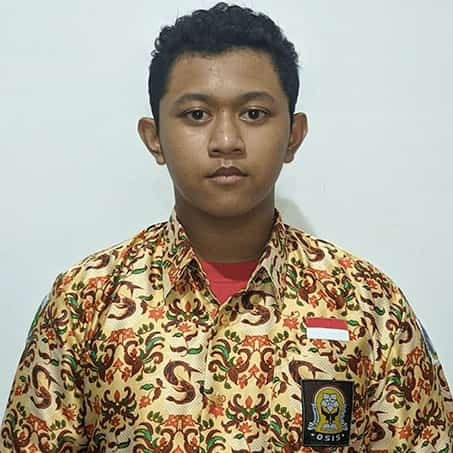
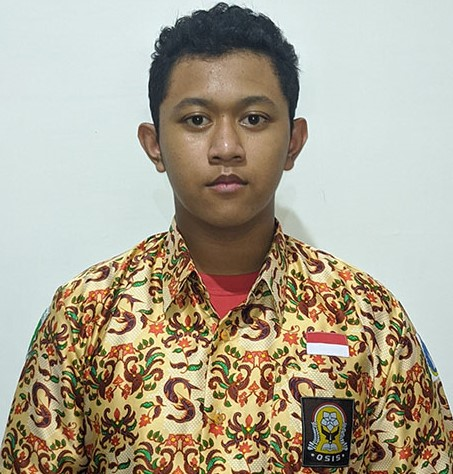
first commit

Changed region(s): [[0.0309, 0.4945, 1.0, 1.0], [0.0, 0.8962, 0.1854, 1.0], [0.5254, 0.6181, 0.5563, 0.649]]

diff --git a/index.html b/index.html
@@ -47,7 +47,7 @@
 
     <!-- jumbotron -->
     <section class="jumbotron text-center">
-      <img src="img/bb1.jpg" alt="Aditya Fajar" width="200" class="rounded-circle img-thumbnail" />
+      <img src="img/bb.jpg" alt="Aditya Fajar" width="200" class="rounded-circle img-thumbnail" />
       <h1 class="display-4">Aditya Fajar Maulana</h1>
       <p class="lead">Web Developer|Content Creator</p>
       <svg xmlns="http://www.w3.org/2000/svg" viewBox="0 0 1440 320"><path fill="#fff" fill-opacity="1" d="M0,32L48,32C96,32,192,32,288,74.7C384,117,480,203,576,208C672,213,768,139,864,128C960,117,1056,171,1152,186.7C1248,203,1344,181,1392,170.7L1440,160L1440,320L1392,320C1344,320,1248,320,1152,320C1056,320,960,320,864,320C768,320,672,320,576,320C480,320,384,320,288,320C192,320,96,320,48,320L0,320Z"></path></svg>

diff --git a/README.md b/README.md
@@ -2,3 +2,4 @@
 # kuronekooo.github.io
 # kuronekooo.github.io
 # kuronekooo.github.io
+# kuroneko.github.io
